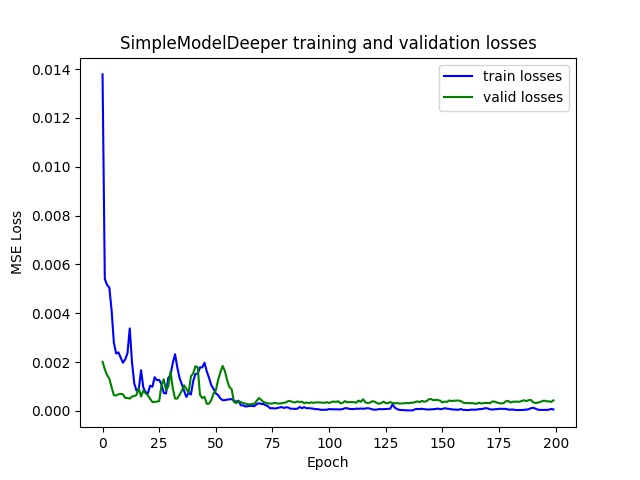
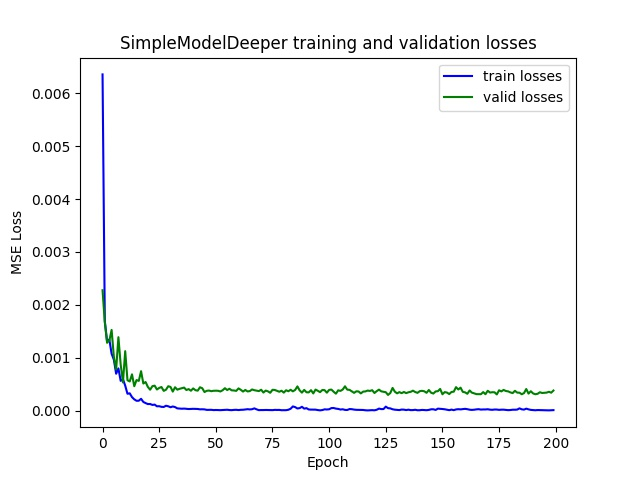
make part1 grayscale training

diff --git a/hw5/model.py b/hw5/model.py
@@ -8,47 +8,33 @@ class SimpleModel(nn.Module):
         self.relu = nn.ReLU()
         self.maxpool = nn.MaxPool2d(kernel_size=2, stride=2)
 
-        self.conv1 = nn.Conv2d(3, 16, 3, 1, padding=1)
+        self.conv1 = nn.Conv2d(1, 16, 3, 1, padding=1)
 
         self.conv2 = nn.Conv2d(16, 32, 3, 1, padding=1)
 
         self.conv3 = nn.Conv2d(32, 64, 3, 1, padding=1)
 
-        self.conv4 = nn.Conv2d(64, 64, 3, 1, padding=1)
-
-        self.conv5 = nn.Conv2d(64, 32, 3, 1, padding=1)
-
         # FC layer
-        self.fc = nn.Linear(32*15*20, 128)
+        self.fc = nn.Linear(64*7*10, 128)
         self.fc2 = nn.Linear(128, num_keypoints*2)
 
     def forward(self, img):
-        # (3, 480, 640) -> (16, 480, 640)
+        # (1, 60, 80) -> (16, 30, 40)
         x = self.conv1(img)
         x = self.relu(x)
-        # (16, 240, 320)
         x = self.maxpool(x)
 
-        # (16, 240, 320) -> (32, 120, 160)
+        # (16, 30, 40) -> (32, 15, 20)
         x = self.conv2(x)
         x = self.relu(x)
         x = self.maxpool(x)
 
-        # (32, 120, 160) -> (64, 60, 80)
+        # (32, 15, 20) -> (64, 7, 10)
         x = self.conv3(x)
         x = self.relu(x)
         x = self.maxpool(x)
 
-        # (64, 60, 80) -> (64, 30, 40)
-        x = self.conv4(x)
-        x = self.relu(x)
-        x = self.maxpool(x)
-        # (64, 30, 40) -> (64, 15, 20)
-        x = self.conv5(x)
-        x = self.relu(x)
-        x = self.maxpool(x)
-
-        # (64, 15, 20) -> (n_keypoints, 2)
+        # (64, 7, 10) -> (n_keypoints, 2)
         batch_size = x.shape[0]
         out = self.fc2(self.relu(self.fc(x.reshape(batch_size, -1))))
         out = out.reshape(batch_size, self.num_keypoints, 2)
@@ -61,53 +47,38 @@ class SimpleModelDeeper(nn.Module):
         self.relu = nn.ReLU()
         self.maxpool = nn.MaxPool2d(kernel_size=2, stride=2)
 
-        self.conv1 = nn.Conv2d(3, 16, 3, 1, padding=1)
+        self.conv1 = nn.Conv2d(1, 16, 3, 1, padding=1)
 
         self.conv2 = nn.Conv2d(16, 32, 3, 1, padding=1)
 
         self.conv3 = nn.Conv2d(32, 64, 3, 1, padding=1)
 
-        self.conv = nn.Conv2d(64, 64, 3, 1, padding=1)
-
         self.conv4 = nn.Conv2d(64, 64, 3, 1, padding=1)
 
-        self.conv5 = nn.Conv2d(64, 32, 3, 1, padding=1)
-
         # FC layer
-        self.fc = nn.Linear(32*15*20, 128)
+        self.fc = nn.Linear(64*7*10, 128)
         self.fc2 = nn.Linear(128, num_keypoints*2)
 
     def forward(self, img):
-        # (3, 480, 640) -> (16, 480, 640)
+        # (1, 60, 80) -> (16, 30, 40)
         x = self.conv1(img)
         x = self.relu(x)
-        # (16, 240, 320)
         x = self.maxpool(x)
 
-        # (16, 240, 320) -> (32, 120, 160)
+        # (16, 30, 40) -> (32, 15, 20)
         x = self.conv2(x)
         x = self.relu(x)
         x = self.maxpool(x)
 
-        # (32, 120, 160) -> (64, 60, 80)
+        # (32, 15, 20) -> (64, 7, 10)
         x = self.conv3(x)
         x = self.relu(x)
         x = self.maxpool(x)
 
-        # (64, 60, 80) -> (64, 60, 80)
-        x = self.conv(x)
-        x = self.relu(x)
-
-        # (64, 60, 80) -> (64, 30, 40)
         x = self.conv4(x)
         x = self.relu(x)
-        x = self.maxpool(x)
-        # (64, 30, 40) -> (64, 15, 20)
-        x = self.conv5(x)
-        x = self.relu(x)
-        x = self.maxpool(x)
 
-        # (64, 15, 20) -> (n_keypoints, 2)
+        # (64, 7, 10) -> (n_keypoints, 2)
         batch_size = x.shape[0]
         out = self.fc2(self.relu(self.fc(x.reshape(batch_size, -1))))
         out = out.reshape(batch_size, self.num_keypoints, 2)
@@ -120,47 +91,33 @@ class SimpleModelLargeKernel(nn.Module):
         self.relu = nn.ReLU()
         self.maxpool = nn.MaxPool2d(kernel_size=2, stride=2)
 
-        self.conv1 = nn.Conv2d(3, 16, 5, 1, padding=2)
+        self.conv1 = nn.Conv2d(1, 16, 5, 1, padding=2)
 
         self.conv2 = nn.Conv2d(16, 32, 5, 1, padding=2)
 
         self.conv3 = nn.Conv2d(32, 64, 5, 1, padding=2)
 
-        self.conv4 = nn.Conv2d(64, 64, 5, 1, padding=2)
-
-        self.conv5 = nn.Conv2d(64, 32, 5, 1, padding=2)
-
         # FC layer
-        self.fc = nn.Linear(32*15*20, 128)
+        self.fc = nn.Linear(64*7*10, 128)
         self.fc2 = nn.Linear(128, num_keypoints*2)
 
     def forward(self, img):
-        # (3, 480, 640) -> (16, 480, 640)
+        # (1, 60, 80) -> (16, 30, 40)
         x = self.conv1(img)
         x = self.relu(x)
-        # (16, 240, 320)
         x = self.maxpool(x)
 
-        # (16, 240, 320) -> (32, 120, 160)
+        # (16, 30, 40) -> (32, 15, 20)
         x = self.conv2(x)
         x = self.relu(x)
         x = self.maxpool(x)
 
-        # (32, 120, 160) -> (64, 60, 80)
+        # (32, 15, 20) -> (64, 7, 10)
         x = self.conv3(x)
         x = self.relu(x)
         x = self.maxpool(x)
 
-        # (64, 60, 80) -> (64, 30, 40)
-        x = self.conv4(x)
-        x = self.relu(x)
-        x = self.maxpool(x)
-        # (64, 30, 40) -> (64, 15, 20)
-        x = self.conv5(x)
-        x = self.relu(x)
-        x = self.maxpool(x)
-
-        # (64, 15, 20) -> (n_keypoints, 2)
+        # (64, 7, 10) -> (n_keypoints, 2)
         batch_size = x.shape[0]
         out = self.fc2(self.relu(self.fc(x.reshape(batch_size, -1))))
         out = out.reshape(batch_size, self.num_keypoints, 2)

diff --git a/hw5/main.py b/hw5/main.py
@@ -66,9 +66,13 @@ def load_folder(folder):
     return (imgs, keypoints), (val_imgs, val_keypoints), img_names
 
 def img2tensor(img):
-    img = img.astype(np.float32)
-    # (h, w, c) -> (c, h, w)
-    img = np.transpose(img, [2, 0, 1])
+    gray = cv2.cvtColor(img, cv2.COLOR_BGR2GRAY)
+
+    gray = cv2.resize(gray, (80, 60))
+
+    img = gray.astype(np.float32)
+
+    img = img[np.newaxis, :, :]
 
     # normalize to [-0.5, 0.5]
     img = img / 255. - 0.5
@@ -161,7 +165,7 @@ class Detector():
     def fit(self, trainset, validset, n_epochs=100):
         self.model.train()
 
-        train_loader = DataLoader(trainset, batch_size=1, shuffle=False, drop_last=True)
+        train_loader = DataLoader(trainset, batch_size=4, shuffle=True, drop_last=True)
         valid_loader = DataLoader(validset, batch_size=4, shuffle=False, drop_last=False)
 
         train_losses = []

diff --git a/hw5/report.md b/hw5/report.md
@@ -7,7 +7,7 @@ In this section, I trained the models using three different architectures and wi
 
 ||SimpleModel|SimpleModel+one more conv layer<br>(SimpleModelDeeper)|SimpleModel with 5x5 filters<br>(SimpleModelLargeKernel)|
 |---|---|---|---|
-||5 Conv(3x3) + 2 FC|6 Conv(3x3) + 2 FC|5 Conv(5x5) + 2FC|
+||3 Conv(3x3) + 2 FC|4 Conv(3x3) + 2 FC|3 Conv(5x5) + 2FC|
 
 * Ground truth nose tip keypoints
 
@@ -27,15 +27,15 @@ In this section, I trained the models using three different architectures and wi
 
 * Correct results (SimpleModel):
 
-<img src="./demo/val_out/20.jpg" width="600px" />
+<img src="./demo/val_out/29.jpg" width="600px" />
 
-<img src="./demo/val_out/24.jpg" width="600px" />
+<img src="./demo/val_out/37.jpg" width="600px" />
 
 * Wrong results (SimpleModel):
 
 <img src="./demo/val_out/17.jpg" width="600px" />
 
-<img src="./demo/val_out/32.jpg" width="600px" />
+<img src="./demo/val_out/15.jpg" width="600px" />
 
 Because I only trained `SimpleModel` by 192 images (without any augmentation),
 the prediction seems more suspectible to the rotation of the face or change of expression.

diff --git a/hw5/README.md b/hw5/README.md
@@ -21,5 +21,5 @@ First, please `mkdir params/`
     * `python main.py part1 SimpleModelDeeper --save params/deeper.pt --out ./val_out_deeper/`
 
 * SimpleModelLargeKernel:
-    * `python main.py part1 SimpleModelLargeKernel --save params/largekernel.pt --out val_out_largekernel/ --lr 0.0005`
+    * `python main.py part1 SimpleModelLargeKernel --save params/largekernel.pt --out val_out_largekernel/`
 
